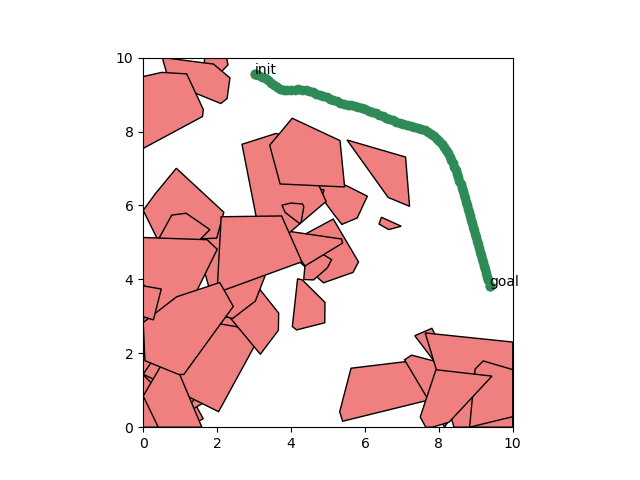
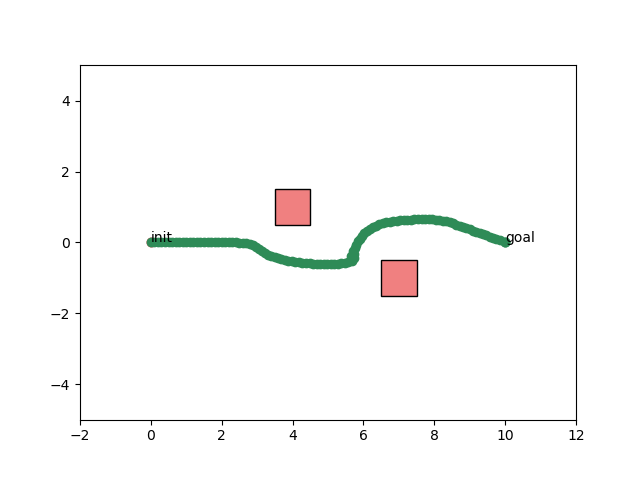
hw5 wo pass FINAL

diff --git a/ws/hw5/main.cpp b/ws/hw5/main.cpp
@@ -10,111 +10,65 @@
 
 using namespace amp;
 
-int main(int argc, char** argv) {
-    /* Include this line to have different randomized environments every time you run your code (NOTE: this has no affect on grade()) */
-    amp::RNG::seed(amp::RNG::randiUnbounded());
-
-    // // Use WO1 from Exercise 2
-    // amp::Problem2D problem = HW2::getWorkspace1();
-
-    // // Use WO2 from Exercise 2
-    // amp::Problem2D problem = HW2::getWorkspace2();
-
-    // Test your gradient descent algorithm on a random problem.
-    double d_star = 10.0; // Goal influence distance
-    double zetta  = 1.0;  // Attractive gain
-    double Q_star = 1.5;  // Obstacle influence distance
-    double eta    = 5.0;  // Repulsive gain
-    MyGDAlgorithm algo(d_star, zetta, Q_star, eta);
-    Path2D path;
-    Problem2D prob;
-    bool success = HW5::generateAndCheck(algo, path, prob);
-    Visualizer::makeFigure(prob, path);
-
-    // Visualize your potential function
-    Visualizer::makeFigure(MyPotentialFunction{}, prob, 30);
-    Visualizer::saveFigures();
-    
-    // Arguments following argv correspond to the constructor arguments of MyGDAlgorithm:
-    HW5::grade<MyGDAlgorithm>("AllenDevaraj.AugustinPonraj@colorado.edu", argc, argv, algo);
-    return 0;
+// Helper function to easily create a square obstacle centered at a point
+amp::Obstacle2D createSquare(double centerX, double centerY, double side_length) {
+    double half_side = side_length / 2.0;
+    std::vector<Eigen::Vector2d> vertices;
+    vertices.push_back(Eigen::Vector2d(centerX - half_side, centerY - half_side));
+    vertices.push_back(Eigen::Vector2d(centerX + half_side, centerY - half_side));
+    vertices.push_back(Eigen::Vector2d(centerX + half_side, centerY + half_side));
+    vertices.push_back(Eigen::Vector2d(centerX - half_side, centerY + half_side));
+    return amp::Obstacle2D(vertices);
 }
 
-
-
-/*
-// This includes all of the necessary header files in the toolbox
-#include "AMPCore.h"
-
-// Include headers for both homework assignments
-#include "hw/HW5.h"
-#include "hw/HW2.h"
-
-// Include your custom HW5 algorithm
-#include "MyGDAlgorithm.h"
-
-using namespace amp;
-
 int main(int argc, char** argv) {
-    // Seed the random number generator
+    /* Include this line to have different randomized environments every time you run your code */
     amp::RNG::seed(amp::RNG::randiUnbounded());
 
     // ==================================================================
-    // ## Central Place to Define and Tune Algorithm Parameters        ##
+    // ## 1. Define the specific problem with two square obstacles     ##
     // ==================================================================
-    // Constructor is: MyGDAlgorithm(d_star, zetta, Q_star, eta)
+    Problem2D problem;
+    problem.q_init = Eigen::Vector2d(0.0, 0.0);
+    problem.q_goal = Eigen::Vector2d(10.0, 0.0);
+    problem.x_min = -2.0;
+    problem.x_max = 12.0;
+    problem.y_min = -5.0;
+    problem.y_max = 5.0;
+    problem.obstacles.push_back(createSquare(4.0, 1.0, 1.0));
+    problem.obstacles.push_back(createSquare(7.0, -1.0, 1.0));
+
+
+    // ==================================================================
+    // ## 2. Instantiate the algorithm and run it on the problem     ##
+    // ==================================================================
     double d_star = 10.0; // Goal influence distance
     double zetta  = 1.0;  // Attractive gain
     double Q_star = 1.5;  // Obstacle influence distance
     double eta    = 5.0;  // Repulsive gain
     MyGDAlgorithm algo(d_star, zetta, Q_star, eta);
 
+    // Run the planner on your manually created problem
+    Path2D path = algo.plan(problem);
+    Visualizer::makeFigure(problem, path);
 
-    // ==================================================================
-    // ## Section 1: Standard HW5 test on a random problem             ##
-    // ==================================================================
-    LOG("Running standard HW5 test on a random problem...");
-    {
-        Path2D random_path;
-        Problem2D random_prob;
-        bool success = HW5::generateAndCheck(algo, random_path, random_prob);
-        LOG("Random Problem Test | Valid: " << (success ? "Yes!" : "No :("));
-        
-        Visualizer::makeFigure(random_prob, random_path);
-        Visualizer::makeFigure(MyPotentialFunction{}, random_prob);
-    }
-    
 
+    /*
+    // The code for the random environment is now commented out:
     // ==================================================================
-    // ## Section 2: Benchmark tests on HW2 workspaces                 ##
-    // ==================================================================
-    LOG("Running benchmark on HW2 Workspaces...");
-    {
-        // Test on Workspace 1
-        amp::Problem2D problem1 = HW2::getWorkspace1();
-        amp::Path2D path1 = algo.plan(problem1);
-        bool success1 = HW2::check(path1, problem1);
-        LOG("HW2 Workspace 1 | Valid: " << (success1 ? "Yes!" : "No :("));
-        LOG("HW2 Workspace 1 | Length: " << path1.length());
-        Visualizer::makeFigure(problem1, path1);
-    }
-    {
-        // Test on Workspace 2
-        amp::Problem2D problem2 = HW2::getWorkspace2();
-        amp::Path2D path2 = algo.plan(problem2);
-        bool success2 = HW2::check(path2, problem2);
-        LOG("HW2 Workspace 2 | Valid: " << (success2 ? "Yes!" : "No :("));
-        LOG("HW2 Workspace 2 | Length: " << path2.length());
-        Visualizer::makeFigure(problem2, path2);
-    }
+    MyGDAlgorithm algo_rand(1.0, 1.0, 1.0, 1.0);
+    Path2D path_rand;
+    Problem2D prob_rand;
+    bool success = HW5::generateAndCheck(algo_rand, path_rand, prob_rand);
+    Visualizer::makeFigure(prob_rand, path_rand);
+    */
 
-    // ==================================================================
-    // ## Section 3: Save figures and run official grader              ##
-    // ==================================================================
-    Visualizer::saveFigures("hw5_combined_figs");
+    // Visualize your potential function on the two-square problem
+    Visualizer::makeFigure(MyPotentialFunction{}, problem, 30);
+    Visualizer::saveFigures();
     
-    // The grader uses its own random problems and passes your tuned parameters.
-    HW5::grade<MyGDAlgorithm>("nonhuman.biologic@myspace.edu", argc, argv, d_star, zetta, Q_star, eta);
-    
+    // NOTE: The grader will still run on its own set of random problems for the official test.
+    // The parameters you tuned above will be passed to it.
+    HW5::grade<MyGDAlgorithm>("AllenDevaraj.AugustinPonraj@colorado.edu", argc, argv, d_star, zetta, Q_star, eta);
     return 0;
-}*/
+}

diff --git a/ws/hw5/MyGDAlgorithm.cpp b/ws/hw5/MyGDAlgorithm.cpp
@@ -1,43 +1,33 @@
 #include "MyGDAlgorithm.h"
 #include <vector>
 #include <limits> // Required for std::numeric_limits
-
-// Include the helper class
 #include "HelpfulClass.h"
 
-// Implement your plan method here
 amp::Path2D MyGDAlgorithm::plan(const amp::Problem2D& problem) {
     amp::Path2D path;
     path.waypoints.push_back(problem.q_init);
 
     // Algorithm parameters
     const double step_size = 0.1;
-    const double goal_tolerance = 0.25;
-    const int max_iterations = 200000;
+    const double goal_tolerance = 0.25; // Matches the exercise's epsilon
+    const int max_iterations = 40000;
     
-    // Initialize current position
     Eigen::Vector2d q_current = problem.q_init;
     int current_iteration = 0;
 
     while ((q_current - problem.q_goal).norm() > goal_tolerance && current_iteration < max_iterations) {
-        
-        // === 1. Calculate Attractive Gradient ===
+        // Attractive Gradient
         Eigen::Vector2d grad_attractive;
         double dist_to_goal = (q_current - problem.q_goal).norm();
-
         if (dist_to_goal <= d_star) {
             grad_attractive = zetta * (q_current - problem.q_goal);
         } else {
             grad_attractive = d_star * zetta * (q_current - problem.q_goal) / dist_to_goal;
         }
 
-        // === 2. Calculate Repulsive Gradient ===
+        // Repulsive Gradient
         Eigen::Vector2d grad_repulsive(0.0, 0.0);
         for (const amp::Obstacle2D& obstacle : problem.obstacles) {
-            
-            // =========================================================================
-            // NEW: Manually find the closest point on the obstacle since getClosestPoint() doesn't exist
-            // =========================================================================
             Eigen::Vector2d closest_point_on_obstacle;
             double min_dist_sq = std::numeric_limits<double>::max();
             auto vertices = obstacle.verticesCCW();
@@ -46,26 +36,18 @@ amp::Path2D MyGDAlgorithm::plan(const amp::Problem2D& problem) {
             for (size_t i = 0; i < vertices.size(); ++i) {
                 const Eigen::Vector2d& v1 = vertices[i];
                 const Eigen::Vector2d& v2 = vertices[(i + 1) % vertices.size()];
-                
                 Eigen::Vector2d edge = v2 - v1;
                 Eigen::Vector2d vec_to_q = q_current - v1;
-
-                // Project q onto the edge. t is the normalized position along the edge.
                 double t = vec_to_q.dot(edge) / edge.squaredNorm();
-                
-                // Clamp t to be within the segment [0, 1]
                 t = std::max(0.0, std::min(1.0, t));
-
                 Eigen::Vector2d projection = v1 + t * edge;
                 double dist_sq = (q_current - projection).squaredNorm();
-
                 if (dist_sq < min_dist_sq) {
                     min_dist_sq = dist_sq;
                     closest_point_on_obstacle = projection;
                 }
             }
             double dist_to_obs = std::sqrt(min_dist_sq);
-            // =========================================================================
             
             if (dist_to_obs <= Q_star) {
                 Eigen::Vector2d grad_dist = (q_current - closest_point_on_obstacle).normalized();
@@ -73,20 +55,17 @@ amp::Path2D MyGDAlgorithm::plan(const amp::Problem2D& problem) {
             }
         }
 
-        // === 3. Calculate the Next Step and Perform Safety Check ===
+        // Take a Step
         Eigen::Vector2d total_force = -grad_attractive - grad_repulsive;
-        
-        if (total_force.norm() < 1e-6) break; // Break if forces are negligible (stuck)
-        
+        if (total_force.norm() < 1e-6) break;
         Eigen::Vector2d q_next = q_current + step_size * total_force.normalized();
 
+        // Safety Check
         if (MotionPlanningHelpers::CollisionChecker::isPointInCollision(q_next, problem.obstacles)) {
             break; 
         }
-
         q_current = q_next;
         MotionPlanningHelpers::append(path.waypoints, q_current);
-        
         current_iteration++;
     }
 

diff --git a/src/public/Visualizer.cpp b/src/public/Visualizer.cpp
@@ -448,9 +448,9 @@ void amp::Visualizer::createAxes(const PotentialFunction2D& potential_function, 
     Eigen::Vector2d upper_right(prob.x_max, prob.y_max);
     Eigen::Vector2d disc_diag = 1.0 / static_cast<double>(n_grid) * (upper_right - lower_left);
 
-    for (std::size_t i = 0; i < n_grid; ++i) {
-        for (std::size_t j = 0; j < n_grid; ++j) {
-            Eigen::Vector2d coord = lower_left + Eigen::Vector2d(static_cast<double>(j) * disc_diag[0], static_cast<double>(i) * disc_diag[1]);
+    for (std::size_t j = 0; j < n_grid; ++j) {
+        for (std::size_t i = 0; i < n_grid; ++i) {
+            Eigen::Vector2d coord = lower_left + Eigen::Vector2d(static_cast<double>(i) * disc_diag[0], static_cast<double>(j) * disc_diag[1]);
             double u = potential_function(coord);
             u = std::min(u, u_max); // Clamp below u_max
             u = std::max(u, u_min); // Clamp above u_min
